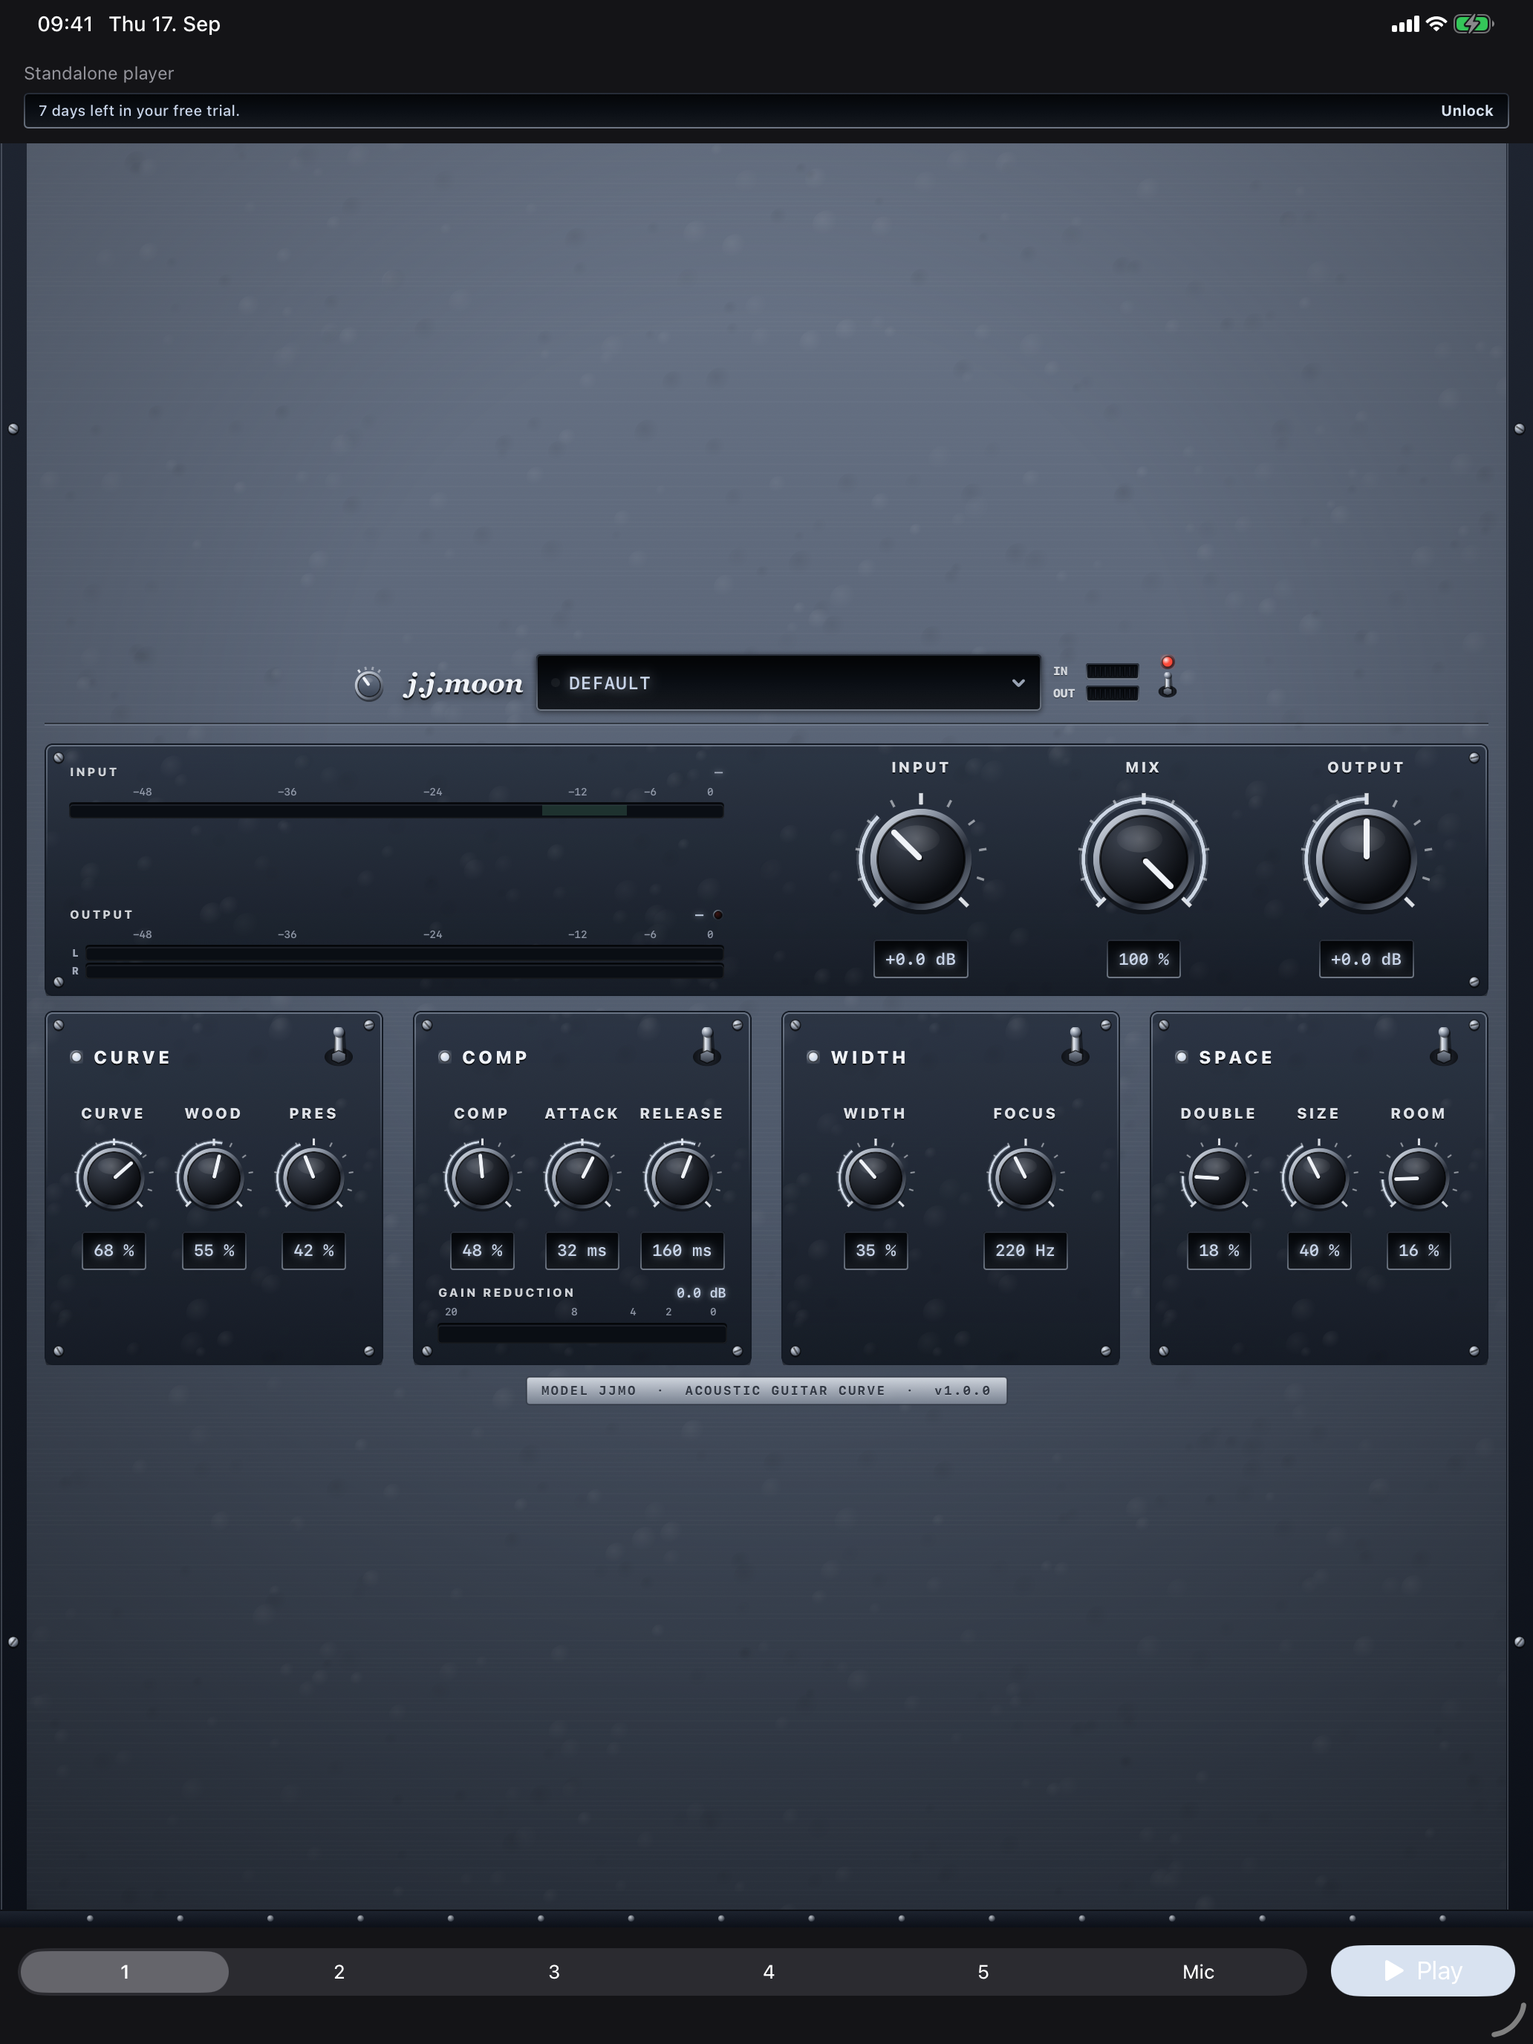
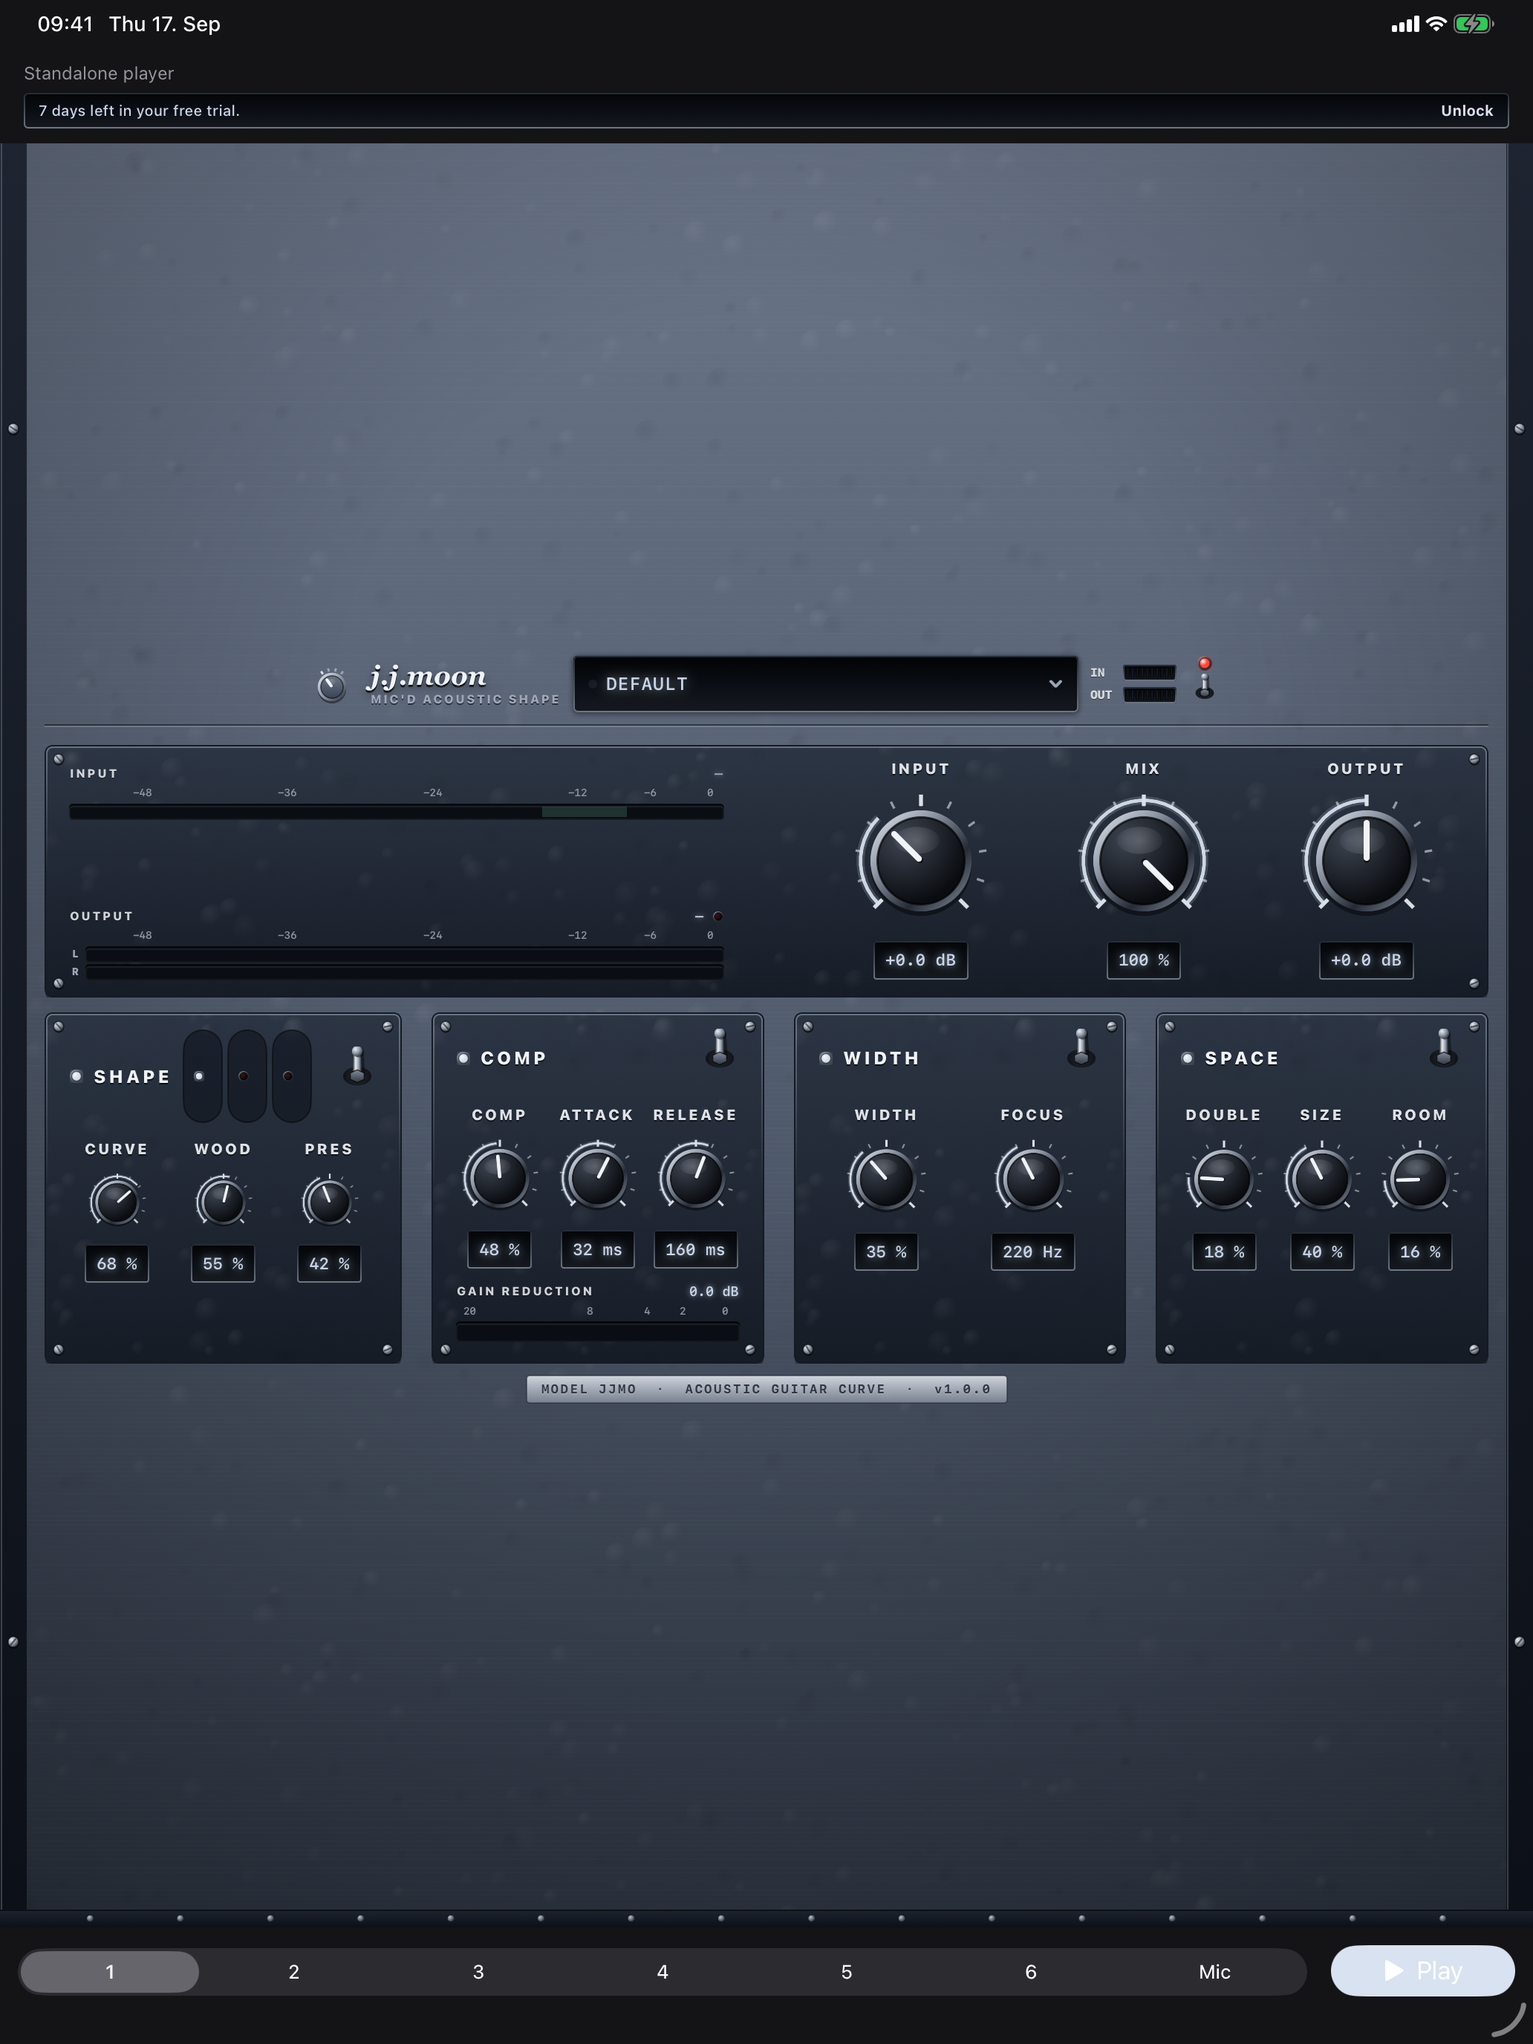
some fixes

diff --git a/JJMoonExtension/UI/JJMoonMainView.swift b/JJMoonExtension/UI/JJMoonMainView.swift
@@ -124,10 +124,9 @@ struct JJMoonMainView: View {
 
     // MARK: - Header
 
-    // One row: wordmark, preset selector, IN/OUT meters, power switch. The
-    // preset selector is the only flexible item, so it takes whatever width
-    // the wordmark, meters and switch leave; the strapline that used to sit
-    // under the wordmark moved to versionFooter so this stays a single line.
+    // One row: wordmark (+ strapline), preset selector, IN/OUT meters, power
+    // switch. The preset selector is the only flexible item, so it takes
+    // whatever width the brand stack, meters and switch leave.
     private var header: some View {
         VStack(spacing: 8) {
             HStack(alignment: .center, spacing: 8) {
@@ -140,17 +139,30 @@ struct JJMoonMainView: View {
                     .padding(.trailing, 5)
                     .layoutPriority(1)
 
-                Text("j.j.moon")
-                    .font(.custom("Georgia-BoldItalic", size: 18))
-                    .foregroundStyle(GearTheme.textLight)
-                    .shadow(color: .black.opacity(0.75), radius: 0, x: 0, y: 1.5)
-                    .shadow(color: .black.opacity(0.35), radius: 3, x: 0, y: 2)
-                    .lineLimit(1)
-                    // Keeps its full size while there is room and only
-                    // compresses on a narrow phone, so the preset window
-                    // beside it never has to truncate first.
-                    .minimumScaleFactor(0.6)
-                    .layoutPriority(1)
+                VStack(alignment: .leading, spacing: 1) {
+                    Text("j.j.moon")
+                        .font(.custom("Georgia-BoldItalic", size: 18))
+                        .foregroundStyle(GearTheme.textLight)
+                        .shadow(color: .black.opacity(0.75), radius: 0, x: 0, y: 1.5)
+                        .shadow(color: .black.opacity(0.35), radius: 3, x: 0, y: 2)
+                        .lineLimit(1)
+                        // Keeps its full size while there is room and only
+                        // compresses on a narrow phone, so the preset window
+                        // beside it never has to truncate first.
+                        .minimumScaleFactor(0.6)
+
+                    Text("MIC'D ACOUSTIC SHAPE")
+                        .font(.system(size: 8, weight: .heavy))
+                        .tracking(1.1)
+                        .foregroundStyle(GearTheme.textMuted)
+                        .shadow(color: .black.opacity(0.55), radius: 0, x: 0, y: 1)
+                        .lineLimit(1)
+                        .minimumScaleFactor(0.7)
+                        .accessibilityHidden(true)
+                }
+                .layoutPriority(1)
+                .accessibilityElement(children: .combine)
+                .accessibilityLabel("j.j.moon, mic'd acoustic shape")
 
                 PresetBar(audioUnit: audioUnit)
                     .frame(minWidth: 96, maxWidth: 340)
@@ -342,8 +354,10 @@ struct JJMoonMainView: View {
     // @dynamicMemberLookup here only resolves reliably one hop at a time
     // (see ObservableAUParameter.swift).
 
-    /// Indexed voice selector — Steel / Nylon / Flamenco — same lamp-and-silkscreen
-    /// idiom as `modeTab`, but sets an absolute index rather than toggling.
+    /// Indexed voice selector — Steel / Nylon / Flamenco. Guitar-native labels
+    /// are the clearest in-panel cue that this block is an acoustic target.
+    /// Same lamp-and-silkscreen idiom as `modeTab`, but sets an absolute index
+    /// rather than toggling.
     private func voiceTab(_ title: String, index: Int, param: ObservableAUParameter) -> some View {
         let selected = Int(param.value.rounded()) == index
         return Button {
@@ -375,7 +389,7 @@ struct JJMoonMainView: View {
         let curveOn: ObservableAUParameter = parameterTree.curve.curveOn
         let curveVoice: ObservableAUParameter = parameterTree.curve.curveVoice
         return VStack(alignment: .leading, spacing: 10) {
-            sectionHeader("CURVE", enabled: curveOn) {
+            sectionHeader("SHAPE", enabled: curveOn) {
                 HStack(spacing: 4) {
                     voiceTab("STEEL", index: JJMoonCurveVoices.steel, param: curveVoice)
                     voiceTab("NYLON", index: JJMoonCurveVoices.nylon, param: curveVoice)
@@ -386,7 +400,7 @@ struct JJMoonMainView: View {
             sectionBody(enabled: curveOn) {
                 HStack(spacing: knobRowSpacing) {
                     knob(parameterTree.curve.curveAmount, "CURVE",
-                         help: "How far toward the ideal recording curve for the selected voice (Steel, Nylon, or Flamenco).")
+                         help: "How far toward the mic'd acoustic target for the selected voice (Steel, Nylon, or Flamenco).")
                     knob(parameterTree.curve.curveWood, "WOOD",
                          help: "Body vs sparkle. Steel ~140 Hz, Nylon warmer ~200 Hz chest, Flamenco tighter ~160 Hz with less boom.")
                     knob(parameterTree.curve.curvePresence, "PRES",

diff --git a/docs/index.html b/docs/index.html
@@ -443,8 +443,8 @@
     </a>
     <a href="#the-sound" class="btn-secondary">Hear the idea</a>
   </div>
-  <div class="hero-img" onclick="openLightbox('images/jj-moon-1.jpg', 'jj-moon — Curve, Comp, Width and Space')">
-    <img src="images/jj-moon-1.jpg" alt="jj-moon panel: Curve, Comp, Width and Space with master strip and demo player" />
+  <div class="hero-img" onclick="openLightbox('images/jj-moon-1.jpg', 'jj-moon — mic’d acoustic shape')">
+    <img src="images/jj-moon-1.jpg" alt="jj-moon: acoustic guitar shape panel with Steel / Nylon / Flamenco voices" />
   </div>
   <p class="hero-trust">Free · 7-day trial · then $2.99 once &nbsp;·&nbsp; Open the app, tap Play, then load jj-moon in your host</p>
 </section>
@@ -557,9 +557,9 @@
     <p class="section-sub">Moonlight steel and silver by default — also Slate, Field Green, or Tweed. Bakelite knobs, bat switches, smoked-glass readouts, drawn procedurally so it stays sharp at any host size. Tap a screenshot for a larger view.</p>
   </div>
   <div class="shots-scroll">
-    <div class="shot wide" onclick="openLightbox('images/jj-moon-1.jpg', 'The whole chain')">
-      <img src="images/jj-moon-1.jpg" alt="jj-moon: Curve, Comp, Width and Space panels with master strip" />
-      <div class="shot-label">The whole chain</div>
+    <div class="shot wide" onclick="openLightbox('images/jj-moon-1.jpg', 'Acoustic guitar · one insert')">
+      <img src="images/jj-moon-1.jpg" alt="jj-moon: Shape, Comp, Width and Space — Steel / Nylon / Flamenco voices visible" />
+      <div class="shot-label">Acoustic guitar · one insert</div>
     </div>
     <div class="shot wide" onclick="openLightbox('images/jj-moon-2.jpg', 'Factory presets')">
       <img src="images/jj-moon-2.jpg" alt="jj-moon preset window open over the panel" />
@@ -577,14 +577,14 @@
 <section class="features-section" id="sections">
   <div class="container">
     <div class="features-header">
-      <div class="section-eyebrow">Curve · Comp · Width · Space</div>
+      <div class="section-eyebrow">Shape · Comp · Width · Space</div>
       <h2 class="section-title">Four blocks, in series</h2>
       <p class="section-sub">A chain, not parallel sends: each block feeds the next. Master Mix puts the whole thing in parallel with dry if you want it that way.</p>
     </div>
     <div class="features-grid">
       <div class="feature">
         <span class="feature-icon">◑</span>
-        <h3>Curve</h3>
+        <h3>Shape</h3>
         <p>The reason this plug-in exists. A fixed multi-band target aimed at well-mic'd acoustics — with <strong>Steel</strong>, <strong>Nylon</strong>, and <strong>Flamenco</strong> voices sharing the same knobs.</p>
         <ul>
           <li>STEEL / NYLON / FLAME — target voice</li>

diff --git a/icon/make-icon.swift b/icon/make-icon.swift
@@ -121,6 +121,41 @@ screw(at: CGPoint(x: size - screwInset, y: size - screwInset), radius: screwRadi
 screw(at: CGPoint(x: screwInset, y: screwInset), radius: screwRadius, slotAngle: -0.35)
 screw(at: CGPoint(x: size - screwInset, y: screwInset), radius: screwRadius, slotAngle: 0.85)
 
+// MARK: - Soundhole / rosette
+// One readable acoustic cue at home-screen sizes (~40 pt). Concentric rings
+// around a dark hole — reads as a guitar soundhole without fighting the
+// meter arc or the wordmark. Drawn before the arc so the meter stays on top.
+let holeCenter = CGPoint(x: size / 2, y: size - 620)
+let holeRadius: CGFloat = 118
+
+func strokeRing(radius: CGFloat, width: CGFloat, color: CGColor) {
+    ctx.setStrokeColor(color)
+    ctx.setLineWidth(width)
+    ctx.strokeEllipse(in: CGRect(x: holeCenter.x - radius, y: holeCenter.y - radius,
+                                 width: radius * 2, height: radius * 2))
+}
+
+// Soft shadow under the hole so it sits into the panel paint.
+ctx.setFillColor(rgb(0x000000, 0.28))
+ctx.fillEllipse(in: CGRect(x: holeCenter.x - holeRadius - 6, y: holeCenter.y - holeRadius - 4,
+                           width: (holeRadius + 6) * 2, height: (holeRadius + 8) * 2))
+
+// Rosette rings — outer to inner, pale then brass.
+strokeRing(radius: holeRadius + 22, width: 5, color: rgb(0xf0f3f8, 0.35))
+strokeRing(radius: holeRadius + 14, width: 7, color: brassDim)
+strokeRing(radius: holeRadius + 6, width: 5, color: brass)
+strokeRing(radius: holeRadius + 1, width: 3, color: rgb(0xf0f3f8, 0.55))
+
+// The hole itself.
+ctx.setFillColor(rgb(0x0a0c10, 0.92))
+ctx.fillEllipse(in: CGRect(x: holeCenter.x - holeRadius, y: holeCenter.y - holeRadius,
+                           width: holeRadius * 2, height: holeRadius * 2))
+// Tiny specular at the rim so it reads as recessed wood, not a flat disc.
+ctx.setStrokeColor(rgb(0xffffff, 0.12))
+ctx.setLineWidth(3)
+ctx.strokeEllipse(in: CGRect(x: holeCenter.x - holeRadius + 4, y: holeCenter.y - holeRadius + 4,
+                             width: (holeRadius - 4) * 2, height: (holeRadius - 4) * 2))
+
 // MARK: - Meter arc
 // Geometry lifted from the jj-breeze icon so the two sit side by side in a
 // home screen folder without one looking redrawn.

diff --git a/JJMoonExtension/Parameters/Parameters.swift b/JJMoonExtension/Parameters/Parameters.swift
@@ -11,7 +11,7 @@ enum JJMoonCurveVoices {
 }
 
 let JJMoonParameterSpecs = ParameterTreeSpec {
-    ParameterGroupSpec(identifier: "curve", name: "Curve") {
+    ParameterGroupSpec(identifier: "curve", name: "Shape") {
         // One Amount for the whole target curve — the point of the plug-in.
         // Wood and Presence are character; Voice picks the target shape.
         ParameterSpec(address: .curveAmount, identifier: "curveAmount", name: "Curve",

diff --git a/APP_STORE_SUBMISSION.md b/APP_STORE_SUBMISSION.md
@@ -103,11 +103,11 @@ a rack of EQ.
 jj-moon is an acoustic-guitar curve engine in a single AUv3 insert. Four
 blocks in signal order, each with its own on/off, plus a master strip.
 
-CURVE — A fixed multi-band target aimed at great acoustic recordings: rumble
+SHAPE — A fixed multi-band target aimed at great acoustic recordings: rumble
 out, body in, boxiness out, soft mid dip, string presence, air on top. Three
-voices — Steel, Nylon, Flamenco — share the same knobs. One Amount for how
-far you go, Wood for body vs sparkle, Presence for the strings. This is the
-block the whole plug-in is built around.
+voices — Steel, Nylon, Flamenco — share the same knobs. One Curve amount for
+how far you go, Wood for body vs sparkle, Presence for the strings. This is
+the block the whole plug-in is built around.
 
 COMP — An optical compressor with program-dependent release. Soft by design
 for acoustic dynamics. One Comp knob for threshold, ratio and make-up
@@ -228,9 +228,15 @@ composited backgrounds, no marketing text over the top.
 
 Upload order — first shot is the search-results thumbnail:
 
-1. `01-panel` — the panel as it opens (Curve / Comp / Width / Space).
+1. `01-panel` — the panel as it opens (Shape with Steel/Nylon/Flame, Comp,
+   Width, Space). Suggested ASC caption: **Acoustic guitar · one insert**.
 2. `02-width-space` — Width and Space (iPhone only; iPad already fits).
+   Caption: **Width and room around the body**.
 3. `03-presets` — the preset window open over the panel.
+   Caption: **Steel, nylon, flamenco factory starts**.
+
+Do not bake marketing text into the PNGs — App Review rejects UI the app
+does not show. Captions live in App Store Connect.
 
 **There is deliberately no paywall screenshot** — currency differs by
 storefront.
@@ -299,10 +305,10 @@ downloaded contains the plug-in and also works as a standalone player, so
 the effect can be reviewed without installing a DAW:
 
 1. Open the app. It opens on demo part 1 (Calm melody) — tap Play.
-2. Turn any knob on the panel. Curve, Comp, Width and Space each have an
+2. Turn any knob on the panel. Shape, Comp, Width and Space each have an
    on/off switch so their contribution can be heard individually.
 3. Tap the preset window at the top to load any of the 15 factory presets.
-   Try Steel / Nylon / FLAME on the Curve section, or load Flamenco / Rasgueado.
+   Try Steel / Nylon / FLAME on the Shape section, or load Flamenco / Rasgueado.
 4. Use the segmented control (1–6 / Mic) to switch demo parts.
 
 To review it as a plug-in inside another app (optional):

diff --git a/docs/curve.md b/docs/curve.md
@@ -1,6 +1,7 @@
-# Curve
+# Shape (Curve)
 
-The reason jj-moon exists — and the first block in the chain.
+The reason jj-moon exists — and the first block in the chain. On the panel
+the section is labelled **SHAPE**; the Amount knob is still **CURVE**.
 
 A fixed multi-band target shape aimed at well-mic'd acoustic guitar
 recordings. Three voices share the same knobs but different targets:
@@ -18,11 +19,11 @@ for Steel (strong 80–250 Hz body, smooth downhill through the mids).
 
 | Control | Range | What it does |
 |---|---|---|
-| **STEEL / NYLON / FLAME** | tabs | Selects the target curve. |
-| **Curve** | 0–100 % | Dry/wet of the whole target curve. 0 % is flat bypass. |
+| **STEEL / NYLON / FLAME** | tabs | Selects the acoustic target voice. |
+| **Curve** | 0–100 % | Dry/wet of the whole target shape. 0 % is flat bypass. |
 | **Wood** | 0–100 % | Body vs sparkle. Centre frequency follows the voice. |
 | **Presence** | 0–100 % | String detail. 0 % gently cuts harshness; 100 % lifts attack/sheen. Keep it low on harsh piezo. |
-| **On/Off** | | Bypass for Curve only. |
+| **On/Off** | | Bypass for Shape only. |
 
 ## Steel under the hood
 

diff --git a/README.md b/README.md
@@ -14,12 +14,12 @@ UI family, different job.
 Four macro blocks in signal order, each with its own on/off, plus a master strip:
 
 ```
-In → trim → [CURVE] → [COMP] → [WIDTH] → [SPACE: double + room] → Mix → Out
+In → trim → [SHAPE] → [COMP] → [WIDTH] → [SPACE: double + room] → Mix → Out
 ```
 
-- **CURVE** — the reason this plug-in exists. A fixed multi-band target
+- **SHAPE** — the reason this plug-in exists. A fixed multi-band target
   curve aimed at well-mic'd acoustic recordings, with a **Steel / Nylon /
-  Flamenco** voice switch. One Amount,
+  Flamenco** voice switch. One Amount (Curve knob),
   plus Wood and Presence.
 - **COMP** — optical compressor with program-dependent release. Soft defaults
   for acoustic dynamics.
